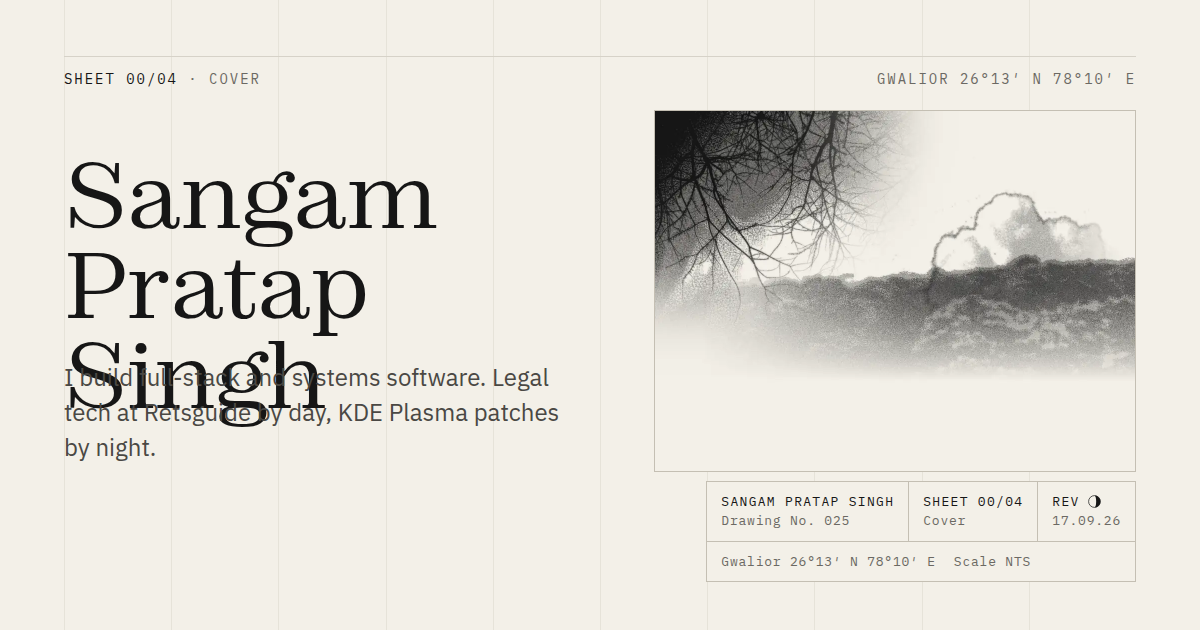
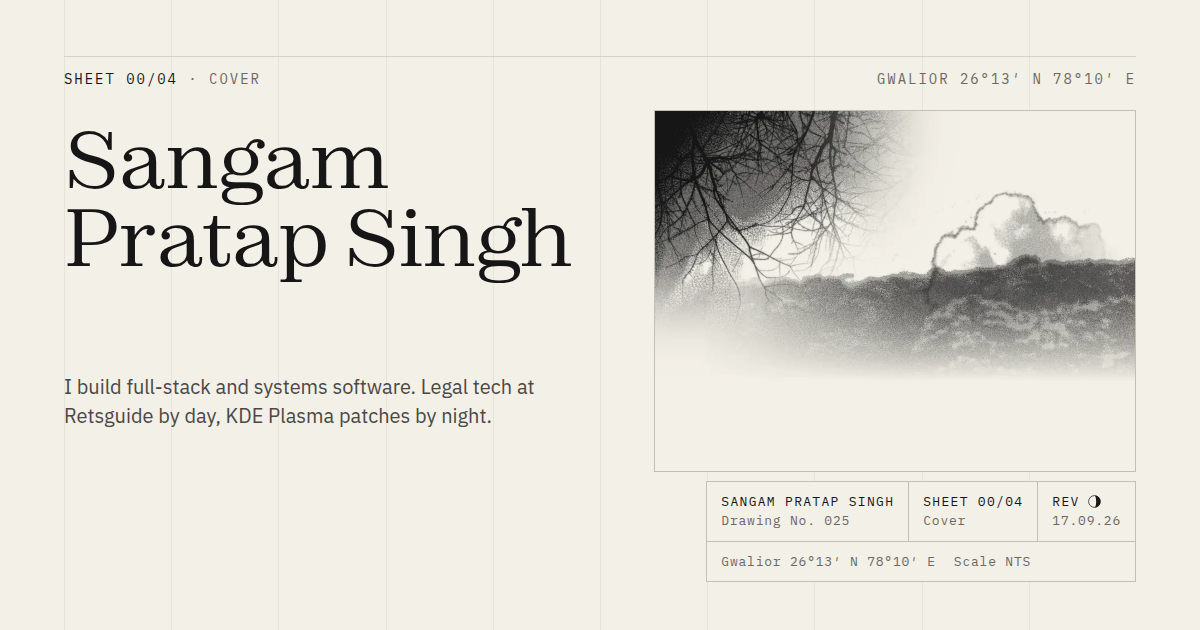
Cover heading order; the cover card's lede clears the name
The cover sheet's head is a label, not an h2, so the page's first
heading is the h1 with the name, which is also where anchor focus lands.
The cover's social card sets the name smaller and the lede lower.

Changed region(s): [[0.0308, 0.2111, 0.4933, 0.5429], [0.0308, 0.5429, 0.4625, 0.7238]]

diff --git a/src/sheet/Sheet.tsx b/src/sheet/Sheet.tsx
@@ -12,6 +12,7 @@ export function Sheet({
   id,
   num,
   kind = 'Sheet',
+  headless = false,
   block,
   heading,
   caption,
@@ -22,6 +23,8 @@ export function Sheet({
   num: string;
   /** What the number counts: a sheet of the set, a note, a detail. */
   kind?: string;
+  /** The head is the section's h2, except on the cover, whose heading is the h1 in its content. */
+  headless?: boolean;
   block: string;
   heading: string;
   caption?: ReactNode;
@@ -35,19 +38,28 @@ export function Sheet({
   }, [id]);
 
   return (
-    <section ref={ref} id={id} className={`sheet-section ${className}`} aria-labelledby={`${id}-title`} data-sheet={num}>
+    <section ref={ref} id={id} className={`sheet-section ${className}`} aria-labelledby={headless ? `${id}-h1` : `${id}-title`} data-sheet={num}>
       <div className="sheet">
         <SheetRule />
         <div className="sheet-head">
-          <h2 id={`${id}-title`} tabIndex={-1} data-sheet-heading className="t-label sheet-head__title">
-            <span aria-hidden="true">
+          {headless ? (
+            <p id={`${id}-title`} className="t-label sheet-head__title" aria-hidden="true">
               <b>
                 {kind} {num}
               </b>{' '}
               · {block}
-            </span>
-            <span className="sr-only">{heading}</span>
-          </h2>
+            </p>
+          ) : (
+            <h2 id={`${id}-title`} tabIndex={-1} data-sheet-heading className="t-label sheet-head__title">
+              <span aria-hidden="true">
+                <b>
+                  {kind} {num}
+                </b>{' '}
+                · {block}
+              </span>
+              <span className="sr-only">{heading}</span>
+            </h2>
+          )}
           {caption ? <p className="t-label sheet-head__caption">{caption}</p> : null}
         </div>
       </div>

diff --git a/src/pages/SinglePage.tsx b/src/pages/SinglePage.tsx
@@ -16,7 +16,7 @@ const [ABOUT, EXPERIENCE, PROJECTS, CONTACT] = SECTIONS;
 export default function SinglePage() {
   return (
     <main id="main" className="min-h-screen">
-      <Sheet id={COVER.id} num={COVER.num} block={COVER.block} heading={COVER.heading} caption={`${PLACE.city} · ${PLACE.coords}`}>
+      <Sheet id={COVER.id} num={COVER.num} block={COVER.block} heading={COVER.heading} caption={`${PLACE.city} · ${PLACE.coords}`} headless>
         <Cover />
       </Sheet>
       <Sheet id={ABOUT.id} num={ABOUT.num} block={ABOUT.block} heading={ABOUT.heading}>

diff --git a/src/sections/Cover.tsx b/src/sections/Cover.tsx
@@ -16,7 +16,7 @@ export function Cover() {
       <div className="grid-8 cover__grid">
         <div className="cover__text">
           <DimensionLine label="5 col" className="cover__dim-cols" draw />
-          <h1 className="t-display-1 cover__name">
+          <h1 id="cover-h1" tabIndex={-1} data-sheet-heading className="t-display-1 cover__name">
             <span className="sr-only">
               {SITE.name} — {SITE.jobTitle}
             </span>
